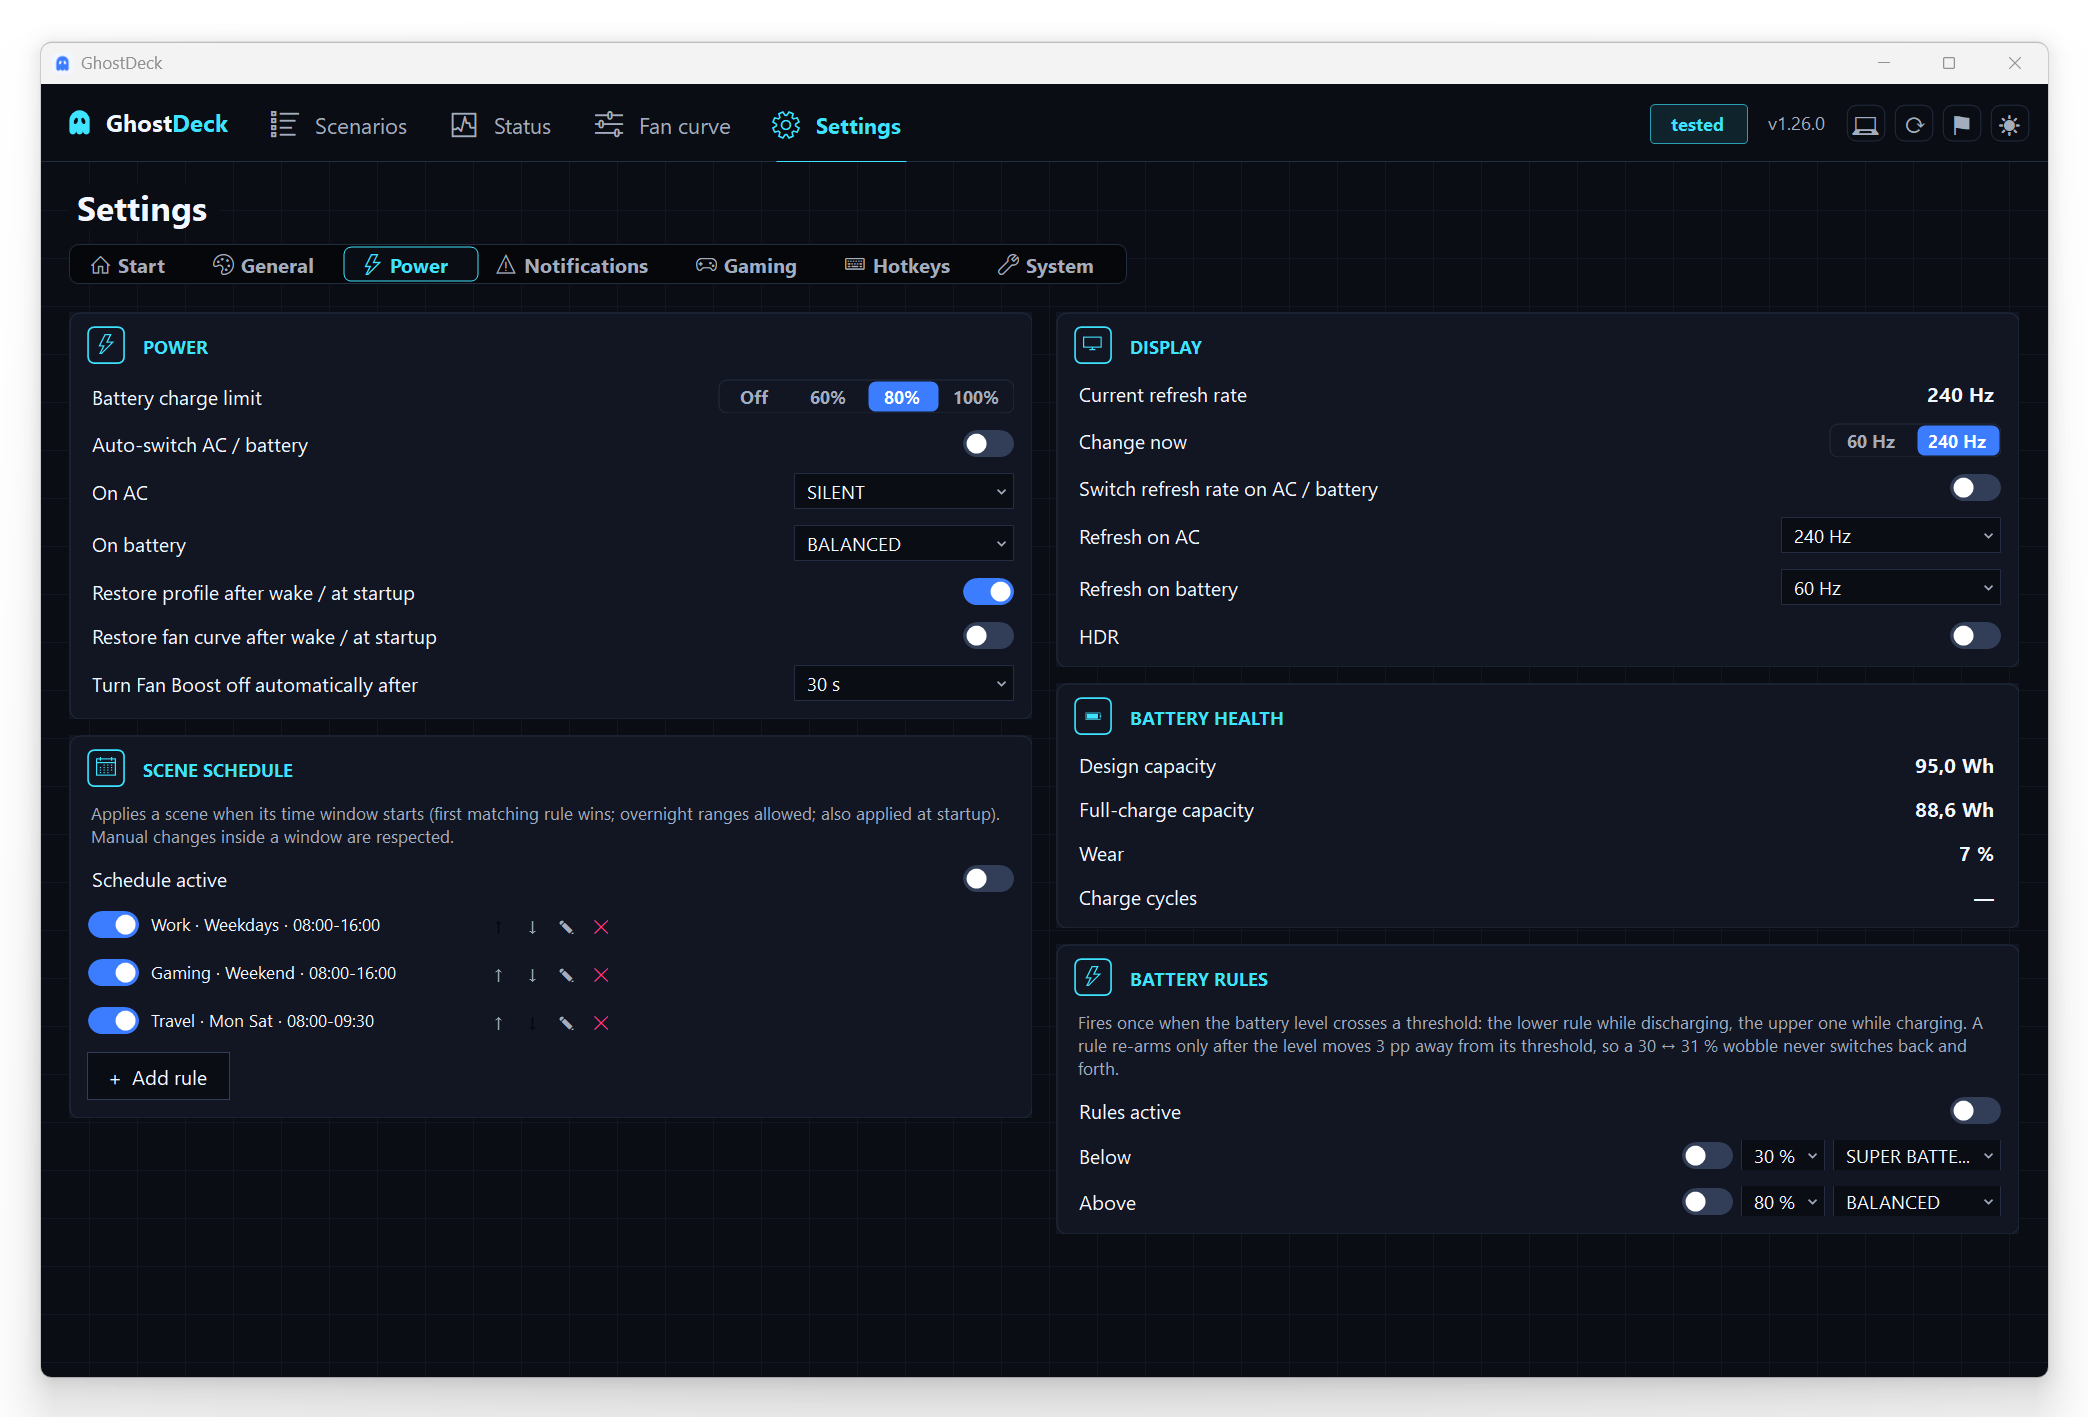
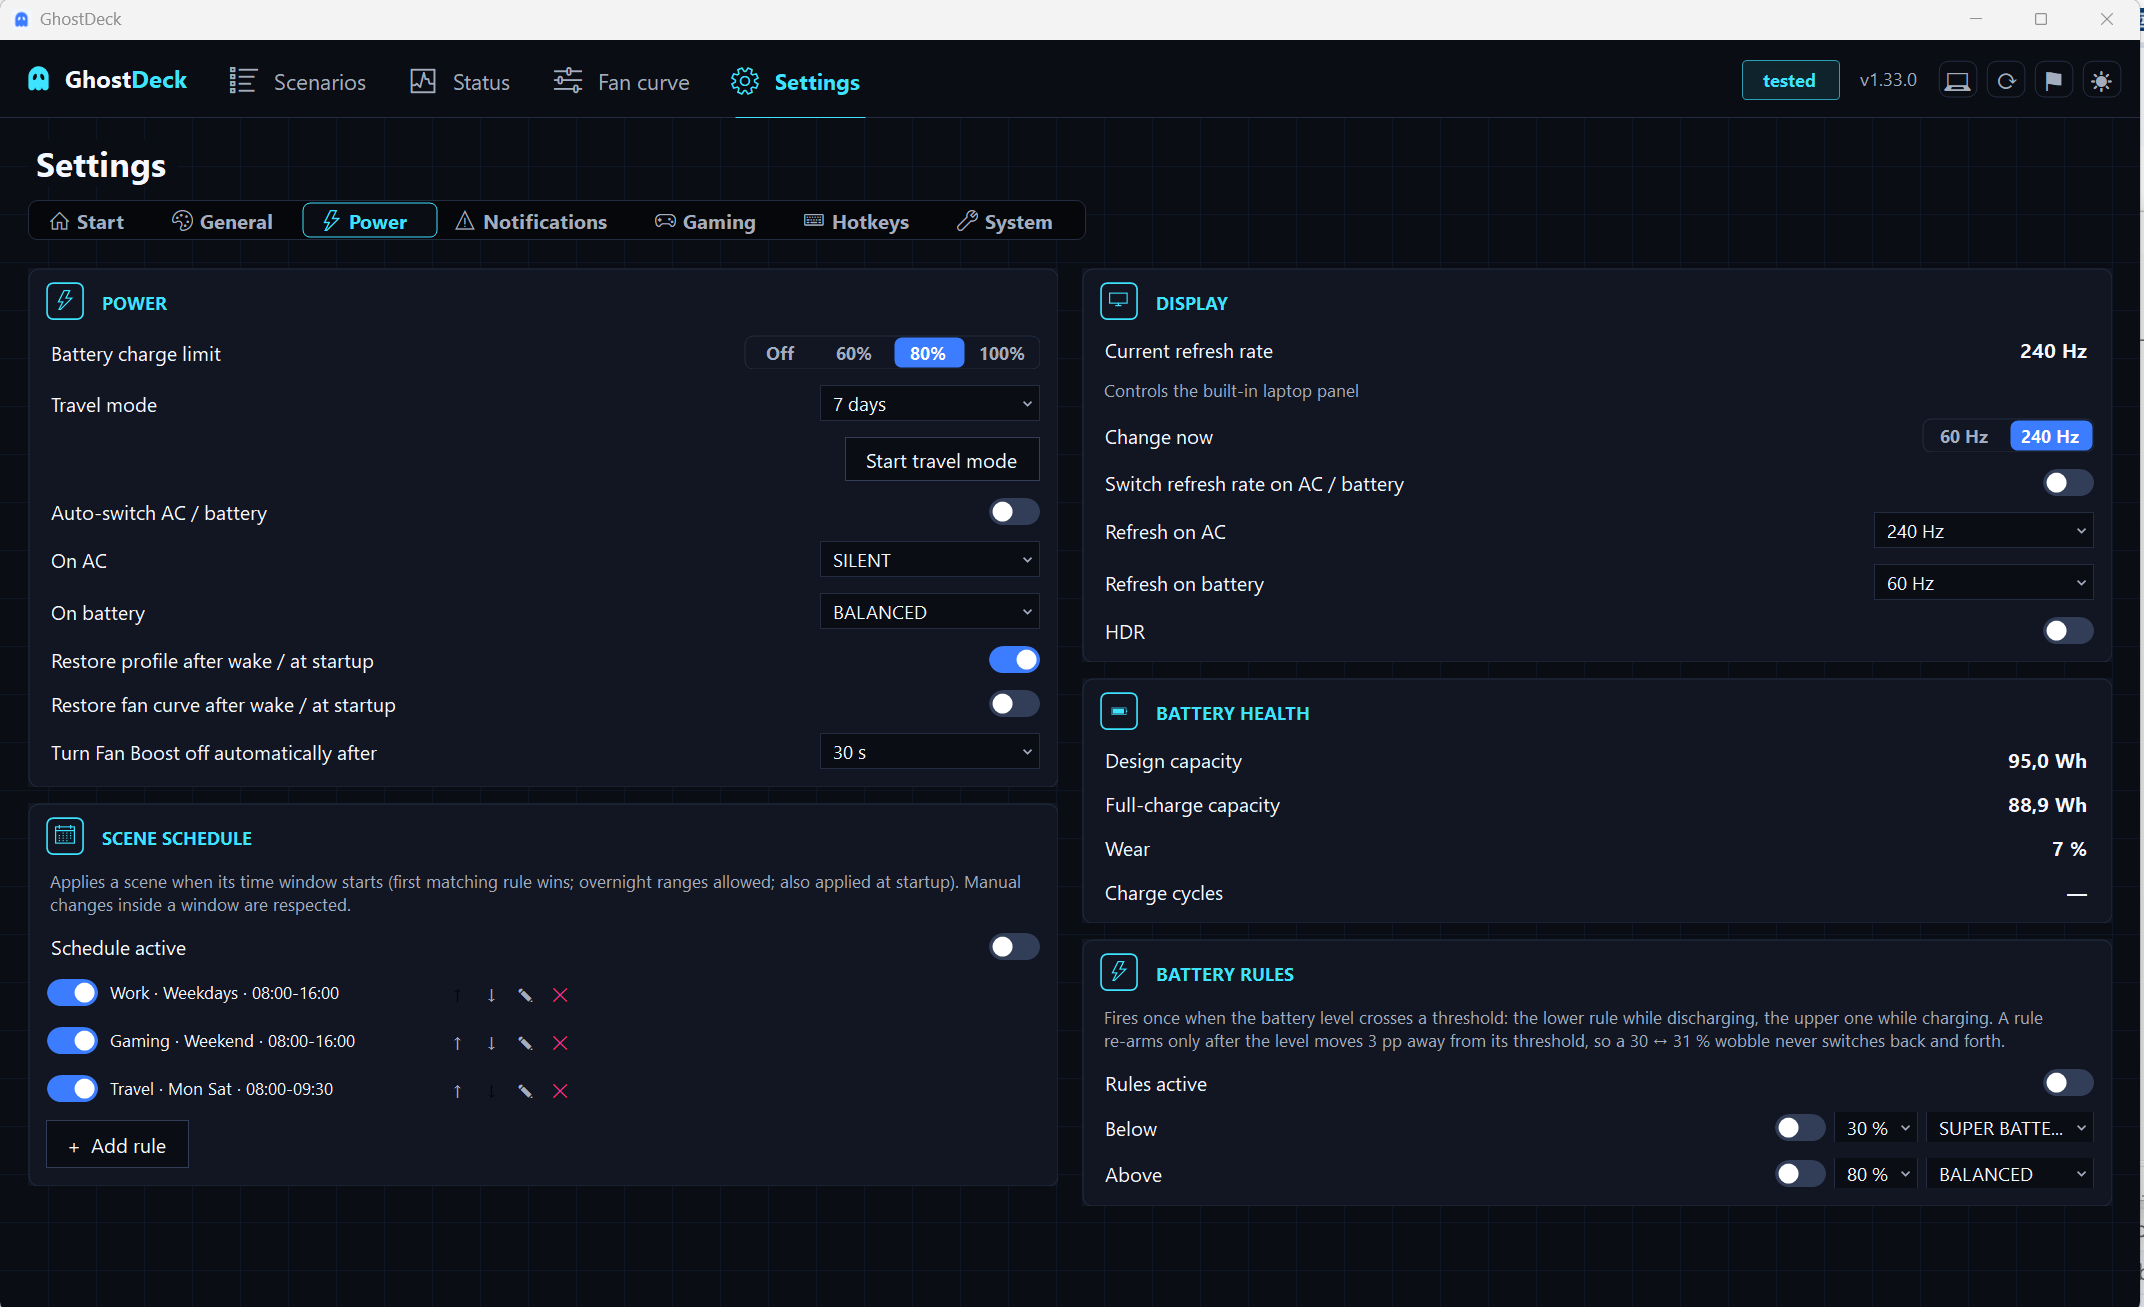
Release prep for v1.33.0: changelog date, gallery, announcement
CHANGELOG stamped 1.33.0 (2026-08-12). README gallery: refreshed
Settings -> Power shot (travel mode row), new Notifications + travel
mode close-up pair. announcements.json entry for 1.32.0-and-older
users.

Changed region(s): [[0.0, 0.0, 1.0, 1.0], [0.8716, 0.3979, 0.9028, 0.4591], [0.3736, 0.4591, 0.4358, 0.4897]]

diff --git a/README.md b/README.md
@@ -40,11 +40,11 @@ Built because **MSI Center 2.0 removed the _Silent_ profile**. This app talks to
 - 🌀 **Fan curve editor** - drag a custom CPU/GPU curve and run it on **Balanced / Extreme / Super Battery** (MSI Center only allows one in Extreme); fully reversible. *Silent is the exception:* its power cap lives in the same EC byte the curve needs, so turning a curve on in Silent necessarily leaves Silent for Balanced - the app warns and switches for you. **Single-fan-curve boards** (where MSI Center shows one slider, e.g. Thin GF63 12VE) automatically get a single full-width curve editor, and the unused GPU tables are never written
 - 🗂 **Fan-curve presets** - save curves under a name, switch them from the editor or the tray menu, **assign a preset per profile** (auto-applied on every switch; Silent stays stock), and **export / import / share** presets as JSON - a Share button opens a prefilled GitHub Discussion with your model and curve
 - 📈 **History charts** - local trend of CPU/GPU temperature, fan duty, fan RPM and **game FPS** over the last 5-60 minutes (Status → History) with a crosshair value readout; memory-only, nothing is stored or sent anywhere - unless you hit **Export…** to save the window as **CSV/JSON** for your own analysis
-- ⌨ **Command line** - `GhostDeck.exe --profile Silent`, `--fanboost on [seconds]`, `--curve "<preset>"`, `--scene "<name>"`, `--refresh 240`, `--charge 80`, `--brightness 45`, `--hdr on`, `--touchpad off`, `--kbd high`, `--webcam off`, `--fnswap left`, `--winlock on`, `--panic`, `--diag` and `--status` (rich JSON: temps, fans/RPM, battery, disks, states) for Task Scheduler, Stream Deck and scripts - same safety gates as the UI
+- ⌨ **Command line** - `GhostDeck.exe --profile Silent`, `--fanboost on [seconds]`, `--curve "<preset>"`, `--scene "<name>"`, `--refresh 240`, `--charge 80`, `--travel 7`, `--brightness 45`, `--hdr on`, `--touchpad off`, `--kbd high`, `--webcam off`, `--fnswap left`, `--winlock on`, `--panic`, `--diag` and `--status` (rich JSON: temps, fans/RPM, battery, disks, states) for Task Scheduler, Stream Deck and scripts - same safety gates as the UI
 - 🌪 **Fan Boost** - force both fans to full speed with one click, a tray entry or a global hotkey (default `Ctrl+Alt+F5`), independent of the active profile; shown as a compact toggle "brick" on the Scenarios tab *(equivalent of MSI's Cooler Boost)*, with an optional **auto-off timer** (30 s to 15 min, or your own value) so a quick cooling blast never turns into a forgotten hurricane
 - 📜 **Change-history log** - a running log of recent profile switches and EC writes (time, source: hotkey / tray / auto-AC / fan curve / external sync, the bytes written, and a readback), with a full-log window - handy for model-support reports
 - 🛡 **Firmware-change guard** - after a BIOS/EC update the app detects the changed firmware, blocks automatic writes and asks you to re-verify the model before it touches the EC again
-- 🌡 **Temperature alert** *(opt-in)* - an OSD toast + tray notification when the CPU or GPU stays above a chosen threshold (70-100 °C) for a chosen time (5-60 s), with a cool-down between alerts and an entry in the change history; the **OSD display time is adjustable** (1-15 s, alerts stay up at least 5 s)
+- 🌡 **Temperature alert** *(opt-in)* - an OSD toast + tray notification when the CPU or GPU stays above a chosen threshold (70-100 °C) for a chosen time (5-60 s), with a cool-down between alerts and an entry in the change history; the **OSD display time is adjustable** (1-15 s, alerts stay up at least 5 s). A separate **SSD temperature alert** *(opt-in)* watches the hottest drive (55-80 °C) through the Windows storage APIs, so it works on every machine - even unsupported models
 - 🆘 **Panic reset hotkey** (default `Ctrl+Alt+F10`) - one press returns the machine to a safe stock state: Fan Boost off, Balanced profile, fans back on the automatic curve
 - 💾 **Settings backup** - export every preference (colors, hotkeys, rules, overlay, alerts) to a JSON file and import it after a reinstall or on another machine; machine-specific state (firmware guard, window position) stays local
 - 🌡 **Temperatures even on unsupported firmware** - a few MSI models ship firmware without MSI's EC control interface (GhostDeck used to be dead there); the app now falls back to MSI's WMI sensor blocks and still shows live **CPU/GPU temperature** in Status and the overlay, while saying plainly that profiles, fan curves and the charge limit are unavailable on that machine
@@ -53,7 +53,7 @@ Built because **MSI Center 2.0 removed the _Silent_ profile**. This app talks to
 - 🔌 Optional **auto-switch** on AC / battery (off by default, so it won't fight MSI software)
 - ♻ **Startup / wake restore** *(opt-in, Settings → Power)* - the EC resets to factory state on every cold boot (and sometimes wakes in Super Battery on its own); GhostDeck can re-assert both your **profile** and your **custom fan curve** a few seconds after startup and resume, so the machine always comes back exactly as you left it
 - 🖥 **Refresh-rate auto-switch** *(opt-in)* - drop the panel to 60 Hz on battery and jump back to 144/240 Hz on AC, automatically; pickers list only the modes your panel reports and always target the **built-in panel**, even with an external monitor set as primary. Pure Windows display API, so it works on **every** laptop - even unrecognised models
-- 🔋 **Battery charge limit** (60 / 80 / 100 %) plus a **battery health panel** (design vs full-charge capacity, wear %, charge cycles) in Settings → Power
+- 🔋 **Battery charge limit** (60 / 80 / 100 %) with a **travel mode** - one click charges to 100 % for a trip and the previous limit returns automatically after 3-30 days - plus a **battery health panel** (design vs full-charge capacity, wear %, charge cycles) in Settings → Power
 - 🚀 **Start with Windows** (elevated scheduled task - no UAC nag at logon)
 - 🔄 Syncs the UI if the profile is changed externally (e.g. by MSI Center)
 - 🗄 **Signed model-database updates** - support for newly verified models and fan curves arrives **without waiting for a release**: the app fetches a **digitally signed** model database from the repo at every start, when you open the Models tab, or on demand from Settings → System, and applies it straight away when it is newer. Signature verified on every load, older files rejected, anything invalid falls back to the built-in tables - a bad download can never break the app
@@ -73,6 +73,7 @@ GhostDeck is a small, focused tool - it deliberately does one thing (power/fan p
 | Balanced / Extreme / Super Battery modes | ✅ | ✅ |
 | Full fan speed (Fan Boost / MSI Cooler Boost) | ✅ | ✅ *(+ auto-off timer)* |
 | Battery charge limit | ✅ *(60/80/100)* | ✅ *(60/80/100)* |
+| Charge-limit travel mode (auto-revert after a trip) | ❌ | ✅ *(3-30 days, CLI 1-90)* |
 | Custom fan curve | Limited¹ | ✅ *(Balanced / Extreme / Super Battery)*¹ |
 | Global **rebindable** hotkeys | Limited² | ✅ |
 | Scenes (one-click multi-setting macros) | ❌ | ✅ *(profile + curve + Hz + overlay + more)* |
@@ -92,6 +93,7 @@ GhostDeck is a small, focused tool - it deliberately does one thing (power/fan p
 | Live EC profile-byte view / transparency | ❌ | ✅ |
 | Change & EC-write history log | ❌ | ✅ |
 | Temperature alert (threshold + duration) | ❌ | ✅ *(opt-in, OSD + tray)* |
+| SSD temperature alert | ❌ | ✅ *(opt-in)* |
 | Panic reset hotkey (back to a safe stock state) | ❌ | ✅ *(Ctrl+Alt+F10)* |
 | Settings backup (export / import) | ❌ | ✅ |
 | Fan-curve presets + per-profile auto-apply | ❌ | ✅ *(share/import as JSON)* |
@@ -130,7 +132,7 @@ GhostDeck is a small, focused tool - it deliberately does one thing (power/fan p
 | ![Status](docs/images/status.png) | ![Settings](docs/images/settings.png) |
 | **Status** - temperature/fan rings, fan RPM, per-disk S.M.A.R.T. temperatures, battery time, RAM | **Settings** - Start dashboard: icon sub-tabs, live state on every group tile, quick switches |
 | ![Settings Power](docs/images/settings_power.png) | ![Settings System](docs/images/settings_system.png) |
-| **Settings → Power** - charge limit, scene schedule, battery-level rules, battery health, Fan Boost auto-off timer, refresh rate and HDR | **Settings → System** - tray-icon mouse actions, tray temperature icons, camera privacy block, Windows-key lock, touchpad, Fn/Win keyboard layout, diagnostics, backup |
+| **Settings → Power** - charge limit with travel mode, scene schedule, battery-level rules, battery health, Fan Boost auto-off timer, refresh rate and HDR | **Settings → System** - tray-icon mouse actions, tray temperature icons, camera privacy block, Windows-key lock, touchpad, Fn/Win keyboard layout, diagnostics, backup |
 | ![Settings Hotkeys](docs/images/settings_hotkeys.png) | ![Updates](docs/images/updates.png) |
 | **Settings → Hotkeys** - every action rebindable, including one shortcut per scene | **Updates** - one-click install, 20 releases with download counts and inline notes |
 | ![Report my model](docs/images/report_my_model.png) | ![Models](docs/images/models.png) |
@@ -143,6 +145,8 @@ GhostDeck is a small, focused tool - it deliberately does one thing (power/fan p
 | **Change log** - full history of profile switches and EC writes | **Fan Boost auto-off** - the OSD note when the boost timer hands the fans back |
 | ![Temperature in the tray](docs/images/tray-temps.png) | ![Compact sub-tabs](docs/images/subtabs-compact.png) |
 | **Temperature in the tray** - CPU and GPU as their own icons next to the clock, colour by your own thresholds | **Narrow window** - the sub-tab strip drops to icons instead of pushing a scrollbar; the tab you are on keeps its label |
+| ![Settings Notifications](docs/images/settings_notifications.png) | ![Travel mode](docs/images/travel_mode.png) |
+| **Settings → Notifications** - CPU/GPU and SSD temperature alerts with their own thresholds, OSD display time and one-click restore defaults | **Travel mode** - charge to 100 % for a trip; the previous limit returns on its own after the chosen number of days |
 
 ## Download
 
@@ -197,6 +201,7 @@ GhostDeck.exe --curve "My quiet"      # apply a saved fan-curve preset ("auto" =
 GhostDeck.exe --scene "Gaming"        # apply a saved scene (needs the app running)
 GhostDeck.exe --refresh max           # panel refresh rate (a number or "max"; any laptop)
 GhostDeck.exe --charge 80             # battery charge limit (60/80/100, "off" = stop managing)
+GhostDeck.exe --travel 7              # charge to 100% for a trip; the previous limit returns after 7 days ("off" = end now)
 GhostDeck.exe --brightness 45         # internal-panel brightness (any laptop)
 GhostDeck.exe --hdr on                # HDR / advanced color (HDR-capable displays)
 GhostDeck.exe --touchpad off          # precision touchpad, device level (any laptop)

diff --git a/CHANGELOG.md b/CHANGELOG.md
@@ -3,14 +3,31 @@
 All notable changes to this project are documented here.
 Format loosely based on [Keep a Changelog](https://keepachangelog.com/).
 
-## [Unreleased]
+## [1.33.0] - 2026-08-12
 ### Added
+- **SSD temperature alert** *(opt-in, Settings → Notifications)* - an OSD toast + tray
+  notification when the hottest drive stays above a chosen threshold (55-80 °C) for 30 s,
+  with the same 5-minute cool-down as the CPU/GPU alert. Disk temperatures come from the
+  Windows storage APIs, so the alert works on every machine, including unsupported firmware.
+- **Charge-limit travel mode** (Settings → Power; CLI `--travel <days|off>`) - one click
+  charges the battery to 100 % for a trip and the previous limit comes back on its own after
+  the chosen number of days (3/7/14/30 in the UI, 1-90 via CLI). Any manual charge-limit
+  change cancels the pending revert; ending the mode early restores the previous limit
+  immediately.
 - **`docs/SUPPORTED_MODELS.md` is now generated from the code.** The hidden CLI
   `--dump-supported-md` writes the whole page from the compiled model tables, and CI fails
   whenever the committed file - or the README model counters - drifts from the code, so a
   model promotion can no longer leave the docs stale.
 
 ### Changed
+- **The charge limit is re-asserted a few seconds after resume** - hibernation can drop the
+  EC's charge threshold on some boards; re-writing the same byte is harmless.
+- **Tray temperature icons: a sleeping discrete GPU now shows `--`** instead of its icon
+  vanishing - a disappearing icon read as a bug and made the neighbouring tray icons jump
+  around. The dash uses a muted colour, so it is never mistaken for a good temperature.
+- **Settings → Notifications: the alert groups are visually separated** and a "Restore
+  defaults" button resets the whole card in one click; the travel-mode row gained an
+  in-app help bubble explaining the automatic return of the previous limit.
 - **Models tab: an owner-verified curve on a not-yet-tested model now reads "verified
   (opt-in)"** instead of plain "editable" - the same distinction the supported-models table
   makes, so the app and the docs tell one story.
